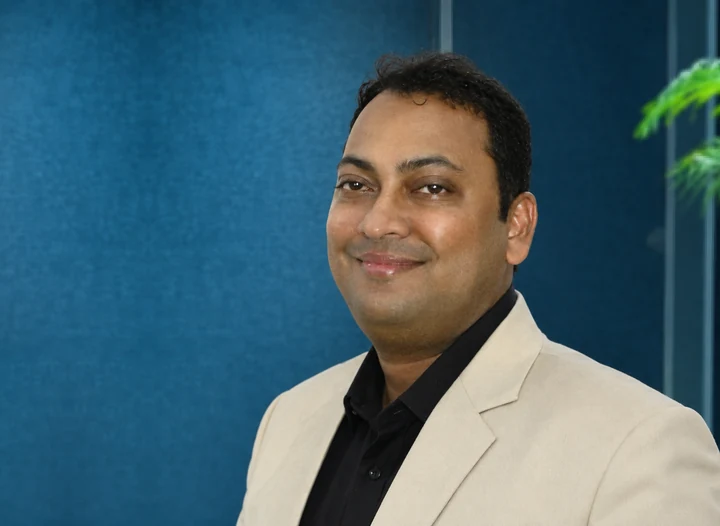
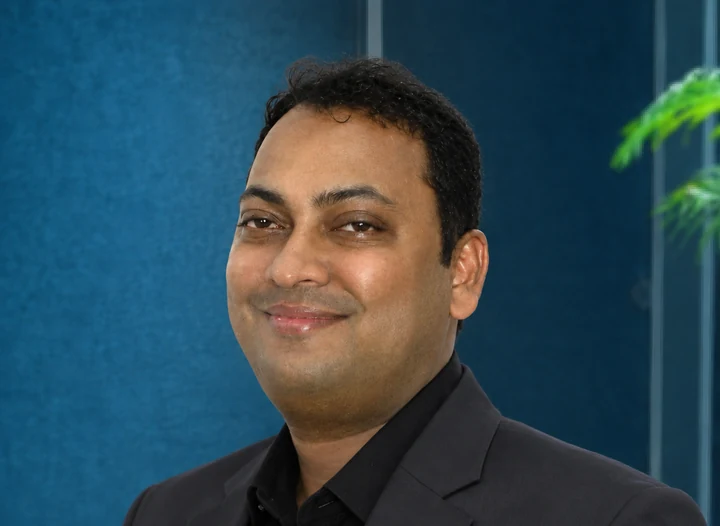
Use new supplied photo for Anurag Deep (cropped only, WebP)
Claude-Session: https://claude.ai/code/session_0166ZKb6ZdTWTwkA841edG1P

diff --git a/web/src/app/pages/cs-ai-governance/committee-members.data.ts b/web/src/app/pages/cs-ai-governance/committee-members.data.ts
@@ -3,7 +3,7 @@
  * Names, titles, photographs and bios are as published on rebit.org.in
  * (/leadership, /executive-team, /committee-members). Bios are verbatim.
  * Shri. Niju Mohan is from /executive-team. Shri. Anurag Deep (Head of AI Delivery) has a
- * supplied studio photograph (wall extended on the left for framing) and a bio drafted from his
+ * supplied photograph (cropped only, no retouching) and a bio drafted from his
  * welcome announcement, until his profile is on the site.
  * Smt. Darshana Kulkarni has no photograph or bio on the site, so the card uses
  * initials, matching how /committee-members shows her.
